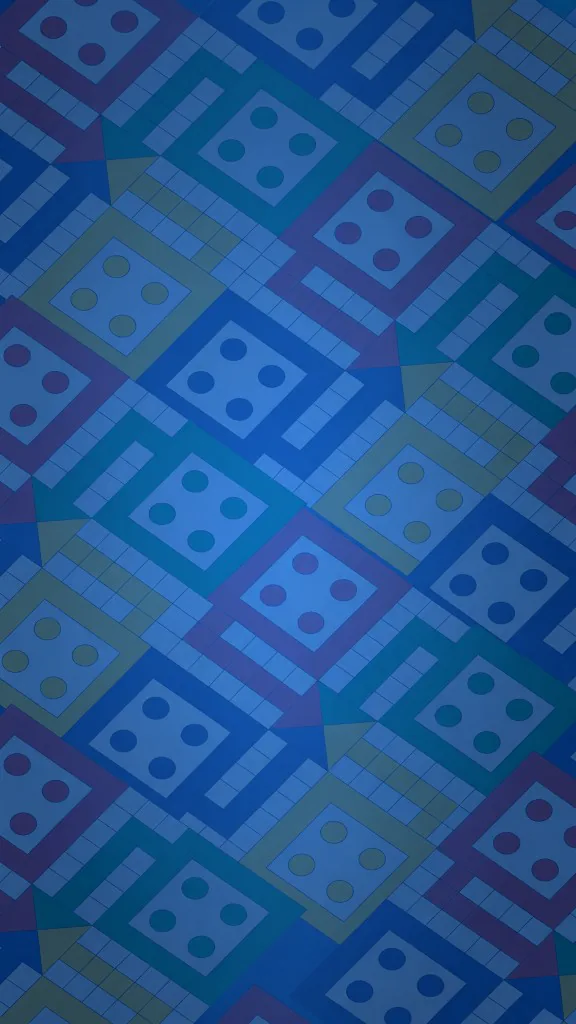
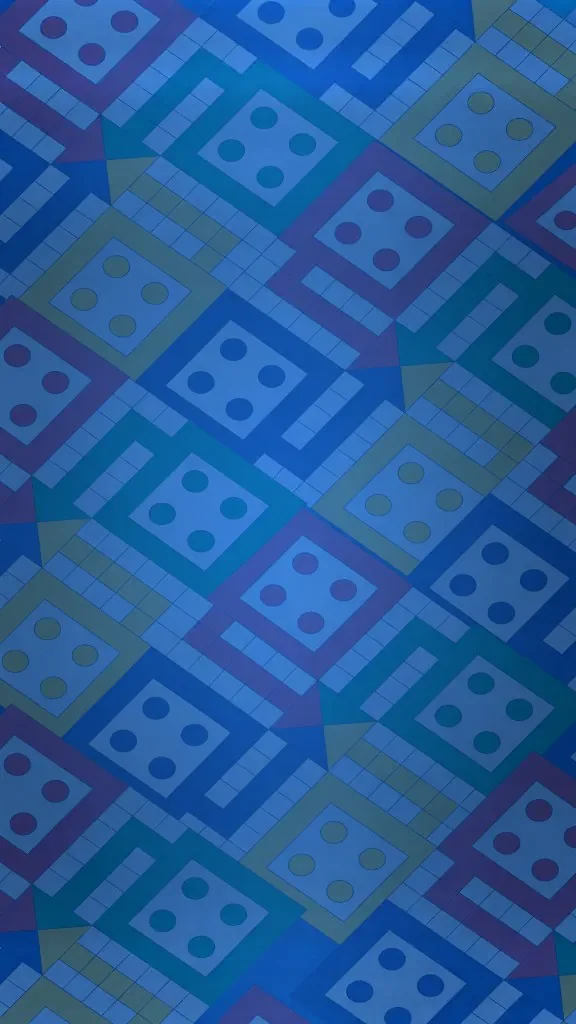
Done

Changed region(s): [[0.0, 0.0, 1.0, 0.1875], [0.0, 0.875, 1.0, 1.0]]

diff --git a/frontend/src/utils/resize-screen.ts b/frontend/src/utils/resize-screen.ts
@@ -1,28 +1,55 @@
-import { $, isMobile, debounce } from "./helpers";
+import { $ } from "./helpers";
 import { BASE_WIDTH, BASE_HEIGHT } from "./constants";
 
-const resizeScreen = debounce(() => {
-  const bodyElement = $("#root") as HTMLBodyElement;
-  let scale = Math.min(
-    window.innerWidth / BASE_WIDTH,
-    window.innerHeight / BASE_HEIGHT
-  );
+const getViewport = () => {
+  const vv = window.visualViewport;
+  return {
+    width: vv?.width ?? window.innerWidth,
+    height: vv?.height ?? window.innerHeight,
+  };
+};
 
-  const mobile = isMobile();
+/** Fit fixed game frame into viewport — works on mobile + desktop + refresh */
+export const applyScreenResize = () => {
+  const container = $(".container") as HTMLElement | null;
+  const screen = $(".screen") as HTMLElement | null;
+  const root = $("#root") as HTMLElement | null;
+  if (!container || !screen) return;
 
-  if (scale >= 1 || mobile) {
-    scale = !mobile ? scale : 1;
+  const { width: vw, height: vh } = getViewport();
+  const scale = Math.min(vw / BASE_WIDTH, vh / BASE_HEIGHT);
+
+  // Outer box matches scaled size so page does not scroll / clip
+  container.style.width = `${Math.floor(BASE_WIDTH * scale)}px`;
+  container.style.height = `${Math.floor(BASE_HEIGHT * scale)}px`;
+  container.style.margin = "0 auto";
+  container.style.overflow = "hidden";
+
+  // Inner keeps design coords; CSS transform scales visually
+  screen.style.width = `${BASE_WIDTH}px`;
+  screen.style.height = `${BASE_HEIGHT}px`;
+  screen.style.transform = `scale(${scale})`;
+  screen.style.transformOrigin = "top left";
+
+  if (root) {
+    root.style.cssText = [
+      "width:100%",
+      "height:100%",
+      "display:flex",
+      "align-items:center",
+      "justify-content:center",
+      "overflow:hidden",
+    ].join(";");
   }
 
-  let applyZoom =
-    window.innerWidth < BASE_WIDTH
-      ? Math.round((window.innerWidth / BASE_WIDTH) * 100)
-      : 100;
+  document.documentElement.style.setProperty("--app-scale", String(scale));
+};
 
-  bodyElement.setAttribute(
-    "style",
-    `zoom: ${applyZoom}%; transform: scale(${scale});`
-  );
-}, 100);
+let debounceTimer = 0;
+
+const resizeScreen = () => {
+  window.clearTimeout(debounceTimer);
+  debounceTimer = window.setTimeout(applyScreenResize, 40);
+};
 
 export default resizeScreen;

diff --git a/frontend/src/hooks/useWindowResize.ts b/frontend/src/hooks/useWindowResize.ts
@@ -1,13 +1,22 @@
 import { useEffect } from "react";
-import onWindowResize from "../utils/resize-screen";
+import resizeScreen, { applyScreenResize } from "../utils/resize-screen";
 
 const useWindowResize = () => {
   useEffect(() => {
-    window.addEventListener("resize", onWindowResize);
-    onWindowResize();
+    // Immediate fit on mount / refresh (no debounce delay)
+    applyScreenResize();
+    requestAnimationFrame(applyScreenResize);
+
+    window.addEventListener("resize", resizeScreen);
+    window.addEventListener("orientationchange", resizeScreen);
+    window.visualViewport?.addEventListener("resize", resizeScreen);
+    window.visualViewport?.addEventListener("scroll", resizeScreen);
 
     return () => {
-      window.removeEventListener("resize", onWindowResize);
+      window.removeEventListener("resize", resizeScreen);
+      window.removeEventListener("orientationchange", resizeScreen);
+      window.visualViewport?.removeEventListener("resize", resizeScreen);
+      window.visualViewport?.removeEventListener("scroll", resizeScreen);
     };
   }, []);
 };

diff --git a/frontend/src/components/wrapper/container/styles.css b/frontend/src/components/wrapper/container/styles.css
@@ -1,9 +1,12 @@
 .container {
   align-items: center;
   display: flex;
-  height: 100%;
+  flex-shrink: 0;
+  height: var(--base-height);
   justify-content: center;
-  width: 100%;
+  overflow: hidden;
+  position: relative;
+  width: var(--base-width);
 }
 
 .screen {
@@ -14,17 +17,21 @@
   background-position: center center;
   background-repeat: no-repeat;
   display: flex;
+  flex-shrink: 0;
   height: var(--base-height);
   justify-content: center;
+  left: 0;
   overflow: hidden;
-  position: relative;
+  position: absolute;
+  top: 0;
   width: var(--base-width);
+  transform-origin: top left;
 }
 
 @media only screen and (max-width: 420px) {
   .screen {
-    background: unset;
-    background-image: unset;
+    background-color: transparent;
+    background-image: none;
   }
 
   body {

diff --git a/frontend/src/index.tsx b/frontend/src/index.tsx
@@ -3,6 +3,7 @@ import bgLudoPattern from "./assets/bg-ludo-pattern.webp";
 import App from "./App";
 import React from "react";
 import ReactDOM from "react-dom/client";
+import { applyScreenResize } from "./utils/resize-screen";
 
 // SockJS / STOMP expect Node-style global in the browser
 (window as unknown as { global: Window }).global = window;
@@ -58,6 +59,13 @@ root.render(
     <App />
   </React.StrictMode>
 );
+
+// Fit layout after first paint (refresh / mobile)
+requestAnimationFrame(() => {
+  applyScreenResize();
+  requestAnimationFrame(applyScreenResize);
+});
+window.addEventListener("load", applyScreenResize);
 
 // If you want your app to work offline and load faster, you can change
 // unregister() to register() below. Note this comes with some pitfalls.

diff --git a/frontend/src/components/lobby/styles.css b/frontend/src/components/lobby/styles.css
@@ -12,29 +12,6 @@
   z-index: 1;
 }
 
-.lobby::before {
-  animation: lobbyGlow 8s ease-in-out infinite alternate;
-  background:
-    radial-gradient(circle at 18% 22%, rgba(255, 214, 64, 0.35), transparent 42%),
-    radial-gradient(circle at 82% 18%, rgba(255, 80, 80, 0.28), transparent 40%),
-    radial-gradient(circle at 50% 78%, rgba(80, 220, 120, 0.25), transparent 45%),
-    radial-gradient(circle at 70% 60%, rgba(70, 140, 255, 0.3), transparent 40%);
-  content: "";
-  inset: 0;
-  pointer-events: none;
-  position: absolute;
-  z-index: -1;
-}
-
-@keyframes lobbyGlow {
-  from {
-    transform: scale(1);
-  }
-  to {
-    transform: scale(1.08);
-  }
-}
-
 .lobby-top {
   align-items: center;
   display: flex;

diff --git a/frontend/public/index.html b/frontend/public/index.html
@@ -3,7 +3,10 @@
   <head>
     <meta charset="utf-8" />
     <link rel="icon" href="%PUBLIC_URL%/favicon.ico" />
-    <meta name="viewport" content="width=device-width, initial-scale=1" />
+    <meta
+      name="viewport"
+      content="width=device-width, initial-scale=1, maximum-scale=1, user-scalable=no, viewport-fit=cover"
+    />
     <meta name="theme-color" content="#000000" />
     <meta name="description" content="Web site created using create-react-app" />
     <link rel="apple-touch-icon" href="%PUBLIC_URL%/logo192.png" />

diff --git a/frontend/src/index.css b/frontend/src/index.css
@@ -24,11 +24,14 @@
   display: flex;
   height: 100%;
   justify-content: center;
+  overflow: hidden;
   width: 100%;
 }
 
 html {
   overflow: hidden;
+  height: 100%;
+  width: 100%;
 }
 
 html,
@@ -40,8 +43,11 @@ body {
   background-repeat: no-repeat;
   font-family: "Fredoka", Arial, Helvetica, sans-serif;
   height: 100%;
+  margin: 0;
+  overflow: hidden;
   position: fixed;
   width: 100%;
+  -webkit-text-size-adjust: 100%;
   -webkit-touch-callout: none;
   -webkit-user-select: none;
   -khtml-user-select: none;
